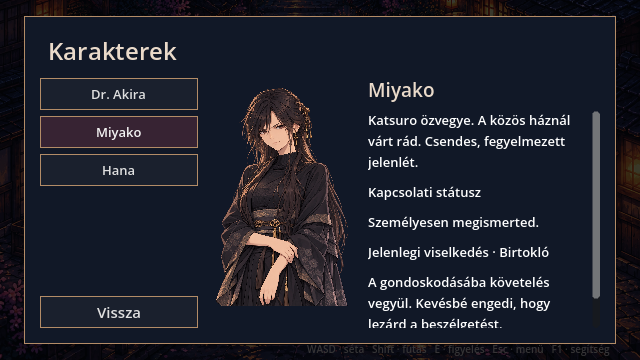
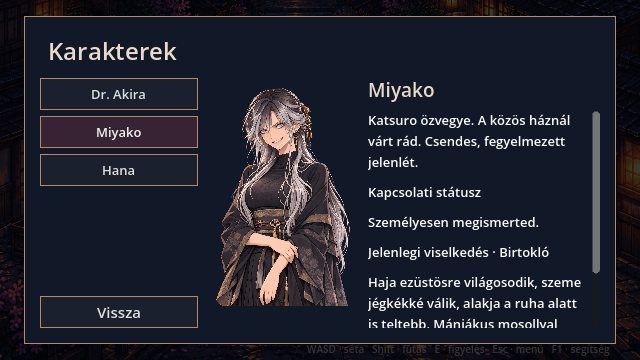
Add Miyako supernatural transformation and manic smile

Changed region(s): [[0.3438, 0.2444, 0.9375, 0.9167]]

diff --git a/docs/CHARACTER_PRESSURE_REVIEW.md b/docs/CHARACTER_PRESSURE_REVIEW.md
@@ -21,3 +21,18 @@ Edit the attached adult Hana game character illustration. Keep the exact existin
 ## Validation
 
 Godot regression covers independent character stages, actual dialogue choices, duplicate callbacks, journal textures/alpha, unknown-character privacy and reset. Hana narrative regression passed with persistent reaction override. All art remains REVIEW pending owner review.
+## 2026-10-10 owner-directed Miyako transformation — REVIEW
+
+Owner explicitly requested lighter hair, blue eyes, increased bust and a developing manic smile. This is an alternate supernatural state, not a replacement of Miyako's baseline design. Stage 1 uses the restrained possessive smile; stage 2 after repeated personal rejection uses miyako_transformed_manic_v1_REVIEW.png. Same body framing, opaque mourning outfit, pose and identity. Dialogue and journal share the state. Stage 2 overrides old expression textures to avoid dark-hair/brown-eye reversions. Separate transformed expression variants and state-aware story CGs are not yet produced; fixed story illustrations remain their existing art.
+
+Provider: built-in ImageGen. First edit reference: miyako_possessive_v1_REVIEW.png. Second edit reference: generated exec-2ac00aff-ca5a-4c8b-aa5d-3dfcce4c1719.png. Final generated output: exec-4f386976-e225-4250-94c5-b09300107c57.png, copied into assets/opening/vn_portraits/miyako_transformed_manic_v1_REVIEW.png. Both calls requested transparent_background=true.
+
+Exact first prompt:
+
+Edit target: attached adult Miyako VN game illustration. Create her supernatural transformation variant after repeated rejection. Her dark brown hair is turning pale ash-silver: prominent silver locks around her face and through the length, darker roots still visible. Both irises are clearly icy blue, with natural pupils and no beams of light. Her bust is visibly fuller beneath the same fully opaque high-neck black mourning kimono, with believable adjusted fabric folds. Keep her face identity, mature adult age, restrained unsettling expression, gold hair ornaments, pose and hands, waist, lower body and clothing design. Keep EXACTLY the same head-to-lower-body framing and illustration style as the input; no close-up crop. She is fully clothed. Transparent alpha background, no backdrop, no text or frame. A single character, production REVIEW variant.
+
+Exact smile refinement prompt:
+
+Edit the attached adult Miyako supernatural transformation game portrait. Change only the face expression: a visibly manic, unsettling wide smile, slightly parted lips showing a small line of normal teeth, lifted corners that look unnaturally persistent, wide intent icy blue eyes fixed on the viewer. Human face, recognizable identity, no monster teeth. Preserve all other details exactly: silver-streaked hair with dark roots, gold ornaments, fully opaque high-neck black kimono, fuller bust beneath the clothing, hands, pose, body proportions, illustration style and the same head-to-lower-body framing. Transparent alpha background. Do not crop or zoom in. No text or border.
+
+Validation: character_pressure regression passes, including actual repeated rejection, journal alpha, reset, isolation, and transformed portrait persistence through neutral/warm/worried/sad expression requests. In-game dialogue and menu screenshots inspected. Existing Godot ObjectDB shutdown warning remains.

diff --git a/docs/DECISION_LOG.md b/docs/DECISION_LOG.md
@@ -111,3 +111,5 @@ Tulajdonosi új vizuális kérés: Hana balra, Akira a beszélgetésekben, két 
 Tulajdonosi kérés alapján karakterlapok/kapcsolati státusz, majd első éjszaka és rendelési nap. LOCKED dizájn/történeti döntést nem módosít. A III. fejezet két eredeti névtelen konzultációja technikai folytatásként szerepel; a Hana-első sorrend és Hana pontos vizsgálati szövege még tisztázandó. REVIEW környezetek, hiányzó fénykép-CG és páciens production assetek: [részletek](CHARACTERS_NIGHT_CLINIC_REVIEW.md). Inventory továbbra is későbbi feladat.
 
 2026-10-10 OWNER / REVIEW: egyéni elutasítási reakciók Miyako és Hana számára; menübeli képek és viselkedésleírások döntésfüggők. A képek megtartják a meglévő alakos kivágást, közeli arcképre nem váltanak. Részletek: CHARACTER_PRESSURE_REVIEW.md.
+
+2026-10-10 OWNER / REVIEW: Miyako ismételt elutasításánál testi horrorváltozat engedélyezett: világosodó haj, kék szem, teltebb mellkas és mániákus mosoly. Alapmegjelenése változatlan; alakos kivágás és ruha megtartva. CHARACTER_PRESSURE_REVIEW.md.
